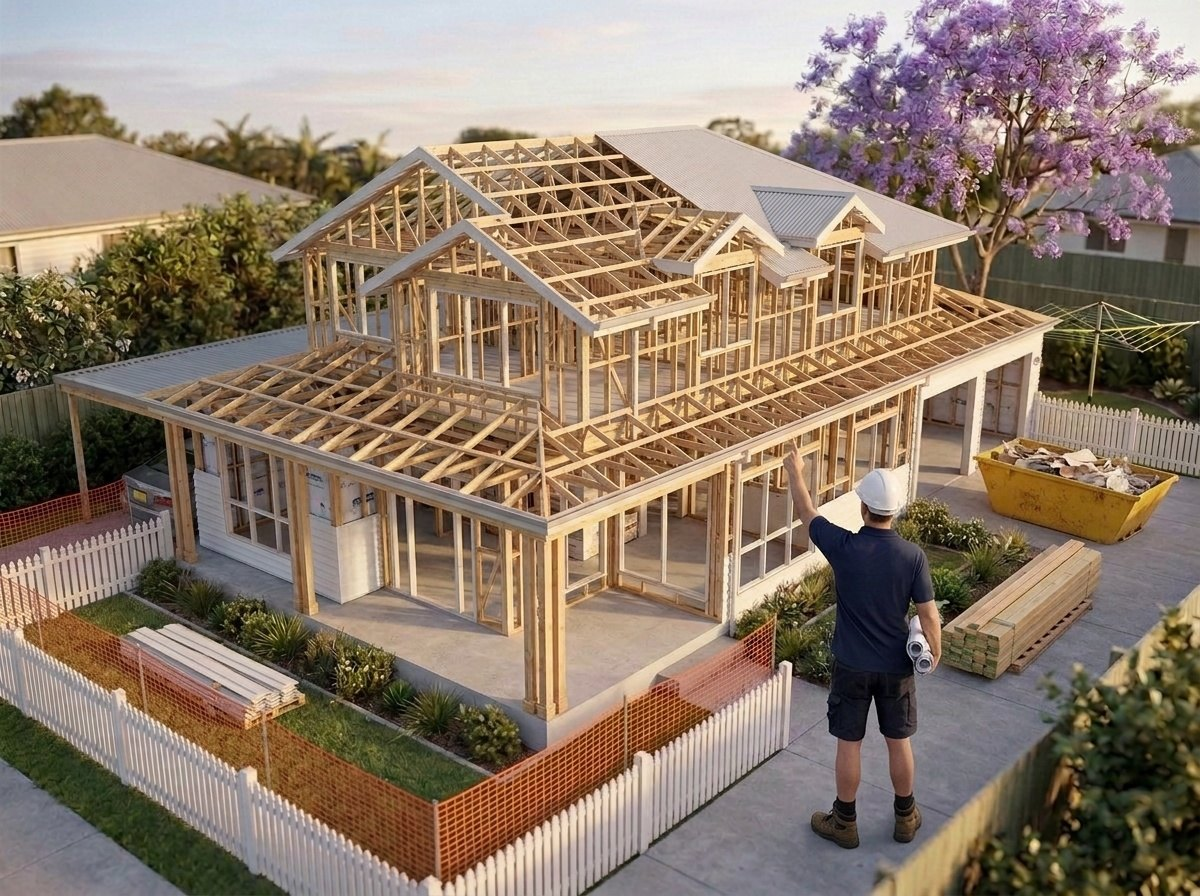
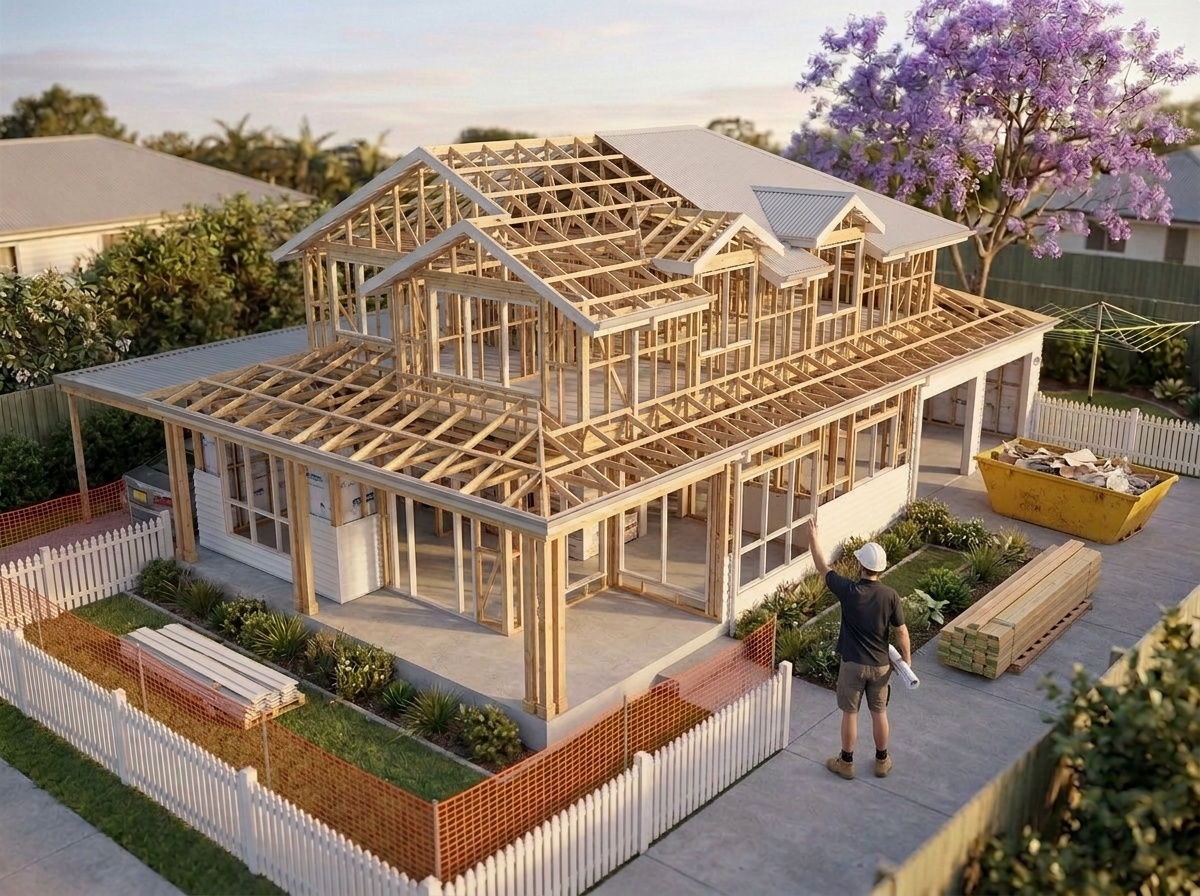
design-3-site: builder regenerated at true human scale (nano-banana-2 edit, scale-anchored prompt)
The 09-08 frame had the builder about twice the height of the house frame;
the edit prompt gave no scale anchor. Regenerated from the same source frame
with the door-height anchor the family frame already used. ?v=2 on the six
pages that reference it so browsers drop the old one.

Changed region(s): [[0.6475, 0.5, 0.8017, 0.9688], [0.6167, 0.6875, 0.6475, 0.8125]]

diff --git a/designs/index.html b/designs/index.html
@@ -71,7 +71,7 @@
       </div>
       <div class="jlink" aria-hidden="true"></div>
 
-      <figure class="jbig"><img src="../assets/img/design-3-site.jpg" alt="The new home going up, with the builder on site, a visualisation" loading="lazy"><figcaption><span class="n">Step 3</span><strong>Watch it go up.</strong><span>Nathan on site, on the phone, the whole way through. The builder who walked your old house is the one building the new one.</span></figcaption></figure>
+      <figure class="jbig"><img src="../assets/img/design-3-site.jpg?v=2" alt="The new home going up, with the builder on site, a visualisation" loading="lazy"><figcaption><span class="n">Step 3</span><strong>Watch it go up.</strong><span>Nathan on site, on the phone, the whole way through. The builder who walked your old house is the one building the new one.</span></figcaption></figure>
       <div class="jlink" aria-hidden="true"></div>
 
       <div class="jrow last">

diff --git a/blog/index.html b/blog/index.html
@@ -48,7 +48,7 @@
           <p>What's usually bundled into an advertised package, who they genuinely suit, where they stop suiting people, and the six questions worth asking any builder.</p>
         </a>
         <a class="post" href="../blog/check-if-your-street-is-in-the-character-overlay/">
-          <img src="../assets/img/design-3-site.jpg" alt="Checking a Bayside block on site" loading="lazy">
+          <img src="../assets/img/design-3-site.jpg?v=2" alt="Checking a Bayside block on site" loading="lazy">
           <p class="small">10 September 2026</p>
           <h2 class="h3">How to check if your house is in the character overlay</h2>
           <p>Two free checks and about fifteen minutes. Council's mapping tells you about your street. Council's archives tell you the year your house went up.</p>

diff --git a/blog/check-if-your-street-is-in-the-character-overlay/index.html b/blog/check-if-your-street-is-in-the-character-overlay/index.html
@@ -24,7 +24,7 @@
    "mainEntityOfPage": "https://www.sabreconstructions.com.au/blog/check-if-your-street-is-in-the-character-overlay/",
    "headline": "How to check if your house is in Brisbane's character overlay — and when it was built",
    "description": "Two free checks, about fifteen minutes. Council's own mapping tells you whether your street is in the Traditional building character overlay. Council's archives tell you the year your house went up.",
-   "image": "https://www.sabreconstructions.com.au/assets/img/design-3-site.jpg",
+   "image": "https://www.sabreconstructions.com.au/assets/img/design-3-site.jpg?v=2",
    "datePublished": "2026-09-10",
    "dateModified": "2026-09-17",
    "inLanguage": "en-AU",

diff --git a/blog/can-we-knock-down-our-house/index.html b/blog/can-we-knock-down-our-house/index.html
@@ -228,7 +228,7 @@
       <h2 class="h2">Keep reading</h2>
       <div class="posts">
         <a class="post" href="../check-if-your-street-is-in-the-character-overlay/">
-          <img src="../../assets/img/design-3-site.jpg" alt="Checking a Bayside block on site" loading="lazy">
+          <img src="../../assets/img/design-3-site.jpg?v=2" alt="Checking a Bayside block on site" loading="lazy">
           <h3 class="h3">How to check if your house is in the character overlay</h3>
           <p>Two free checks and about fifteen minutes. One tells you about your street, the other the year your house went up.</p>
         </a>

diff --git a/blog/rebuilding-in-wynnum-or-manly/index.html b/blog/rebuilding-in-wynnum-or-manly/index.html
@@ -228,7 +228,7 @@
       <h2 class="h2">Keep reading</h2>
       <div class="posts">
         <a class="post" href="../check-if-your-street-is-in-the-character-overlay/">
-          <img src="../../assets/img/design-3-site.jpg" alt="Checking a Bayside block on site" loading="lazy">
+          <img src="../../assets/img/design-3-site.jpg?v=2" alt="Checking a Bayside block on site" loading="lazy">
           <h3 class="h3">How to check if your house is in the character overlay</h3>
           <p>Two free checks and about fifteen minutes. One tells you about your street, the other the year your house went up.</p>
         </a>

diff --git a/blog/what-is-a-knockdown-rebuild-package/index.html b/blog/what-is-a-knockdown-rebuild-package/index.html
@@ -259,7 +259,7 @@
       <h2 class="h2">Keep reading</h2>
       <div class="posts">
         <a class="post" href="../check-if-your-street-is-in-the-character-overlay/">
-          <img src="../../assets/img/design-3-site.jpg" alt="Checking a Bayside block on site" loading="lazy">
+          <img src="../../assets/img/design-3-site.jpg?v=2" alt="Checking a Bayside block on site" loading="lazy">
           <h3 class="h3">How to check if your house is in the character overlay</h3>
           <p>Two free checks and about fifteen minutes. One tells you about your street, the other the year your house went up.</p>
         </a>
